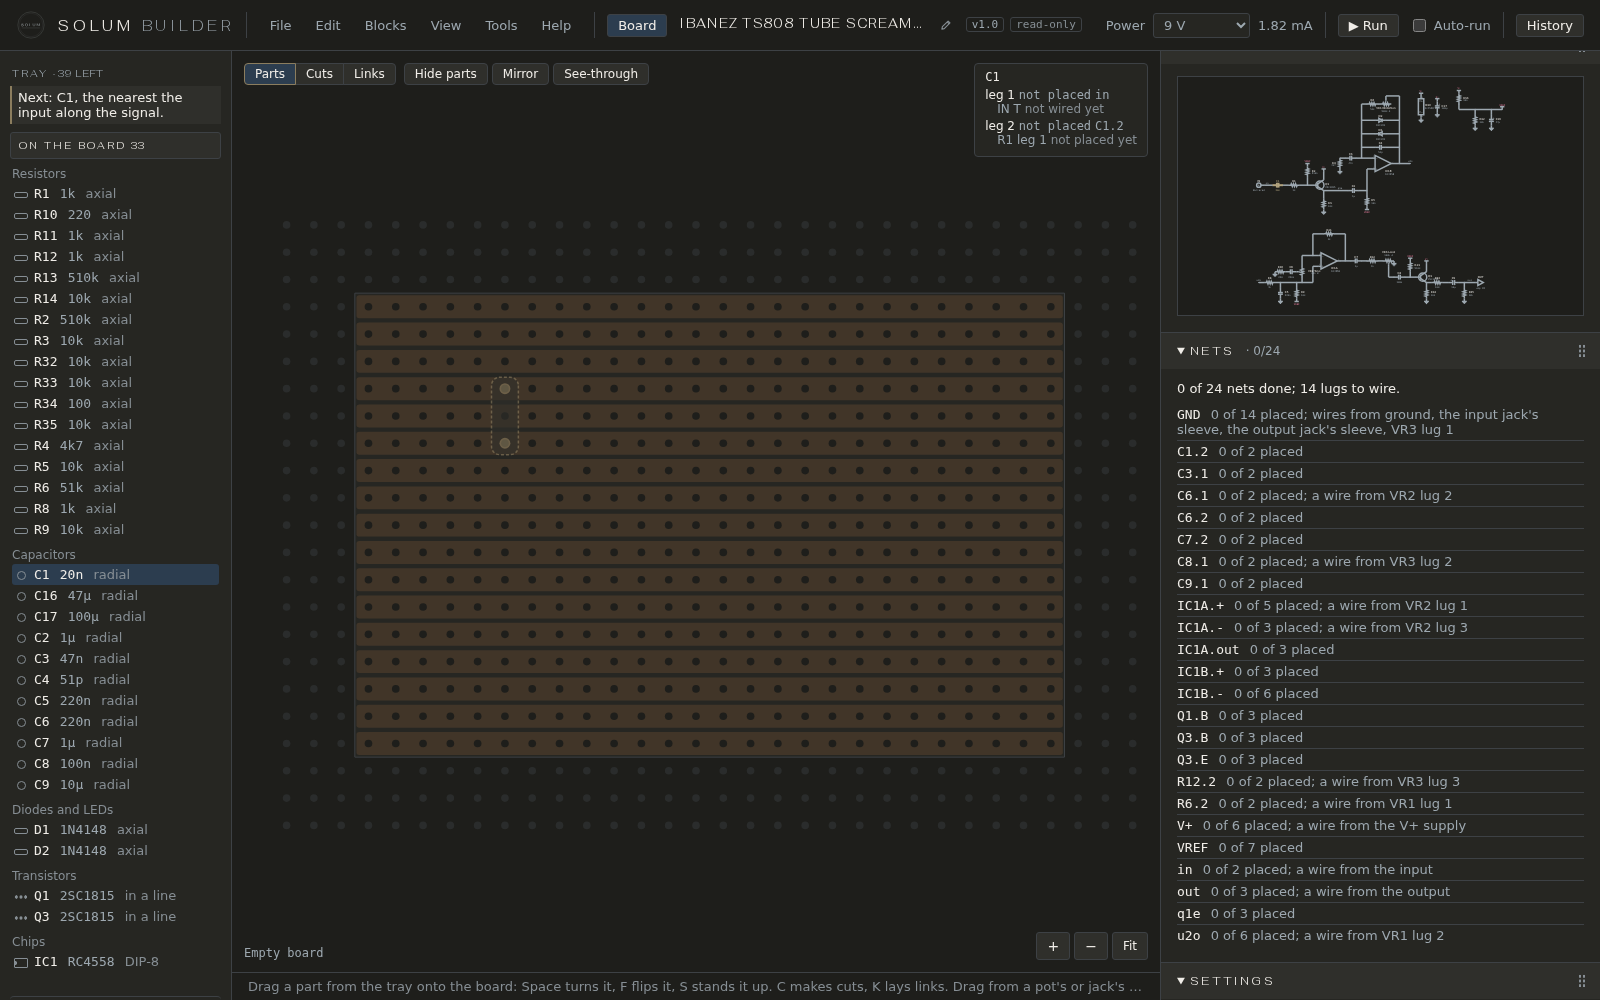
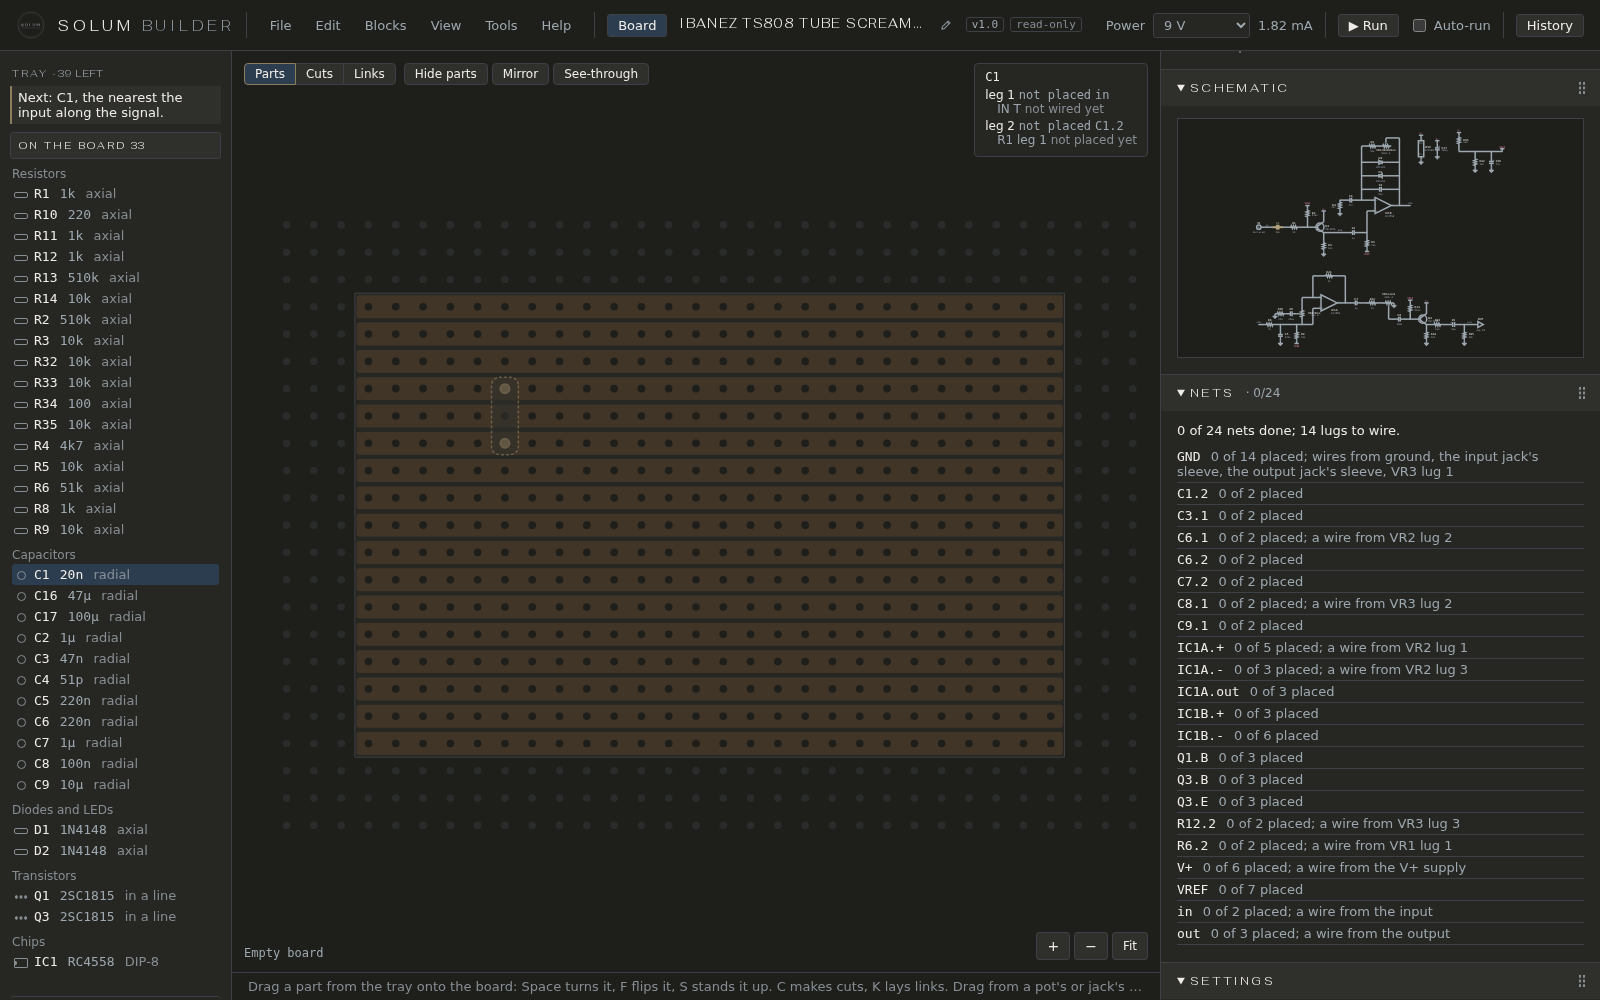
Board: Nets scrolls in its own pane; the guide explains the limits and the layout help (#53)
* Board: the Nets list scrolls in its own pane; the guide explains the limits and the layout help

- Nets capped at 300 px with its own scroll (as Problems' and DC's lists), so
  Settings and the panes below stay on screen on a big circuit (D-371 note).
  UI test on the TS808's 24 nets; the board pictures made again.
- docs/guide/stripboard.md: why the placement limits matter, which parts each
  keeps, the rule (on the pin's strip, within 2 holes plus one per extra part,
  nothing between), what counts as a link near a high-gain input, and a new
  "How the layout help works" (Start a board, Fill the rest, Tidy up, and
  Build a full layout's search, attempts and how the best board is chosen).

* Board: the Nets list up to half the window, at least 300 px

The Board view has few panes, so Nets can take more room (the user): the cap
is now max(300px, 50vh), about 22 nets on a 1000 px window. D-371 note, test
and the board pictures updated.

---------

Changed region(s): [[0.7188, 0.093, 0.9688, 0.961], [0.75, 0.062, 0.8125, 0.093]]

diff --git a/web/app.css b/web/app.css
@@ -724,9 +724,10 @@ body:has(.panels details.moving, .board-panels details.moving) { cursor: grabbin
 
 /* Problems (D-077) */
 .panels summary .count, .board-panels summary .count { font-family: var(--font-ui); text-transform: none; letter-spacing: 0; color: var(--text-2); margin-left: 6px; }
-.problem-list, .dc-list { overflow-y: auto; overscroll-behavior: contain; padding-right: 4px; }
+.problem-list, .dc-list, .net-list { overflow-y: auto; overscroll-behavior: contain; padding-right: 4px; }
 .problem-list { max-height: 300px; } /* about six problems */
 .dc-list { max-height: 200px; } /* about the Harmonics plot */
+.net-list { max-height: max(300px, 50vh); } /* the board's Nets: half the window (the Board view has few panes), so the others stay in reach */
 .dc-end { color: var(--text-3); font-size: 11px; }
 .problem { border-left: 3px solid var(--border); margin: 0 0 6px; padding: 4px 0 4px 8px; }
 .problem:has(.sev-error) { border-left-color: var(--error); }

diff --git a/web/board/board-view.js b/web/board/board-view.js
@@ -1036,7 +1036,7 @@ export function boardView(host, app) {
     $("board-nets-count").textContent = progress.nets.length ? `· ${progress.nets_done}/${progress.nets.length}` : "";
     $("board-nets-body").replaceChildren(
       h("p", { class: "board-progress" }, [netsLine(progress)]),
-      h("ul", { class: "board-list" }, progress.nets.map((n) => {
+      h("ul", { class: "board-list net-list" }, progress.nets.map((n) => {
         const row = h("li", { class: `net-${n.state}`, "data-net": n.net }, [h("span", { class: "net" }, [n.net]), " ", h("span", { class: "state" }, [netWords(n)])]);
         row.addEventListener("click", () => app.select({ kind: "net", id: n.net }));
         return row;

diff --git a/tests/ui/test_board.py b/tests/ui/test_board.py
@@ -125,6 +125,17 @@ def test_a_circuit_without_a_board_shows_its_parts_to_place(page: Page, base_url
     )
 
 
+def test_a_long_nets_list_scrolls_in_its_own_pane(page: Page, base_url: str) -> None:
+    """The TS808's 24 nets scroll inside Nets (as Problems' rows do, D-077), the list up to
+    half the window (at least 300 px), so the other panes stay in reach."""
+    open_with_board(page, base_url, None, "ts808")
+    page.locator("#board-button").click()
+    nets = page.locator("#board-nets-body .net-list")
+    expect(nets.locator("li")).to_have_count(24)
+    shown, whole, window = nets.evaluate("e => [e.clientHeight, e.scrollHeight, innerHeight]")
+    assert shown <= max(300, window / 2) < whole
+
+
 def test_the_board_panes_keep_their_own_order(page: Page, base_url: str) -> None:
     open_with_board(page, base_url, None)
     page.locator("#board-button").click()

diff --git a/docs/guide/stripboard.md b/docs/guide/stripboard.md
@@ -54,16 +54,19 @@ The top-left buttons pick what a click does: **Parts** (P) places and moves part
 
 ### Placement limits
 
-Some parts only work well close to a particular pin, so the board checks they are there: on the pin's strip, within a few holes, nothing between:
+Some parts only work as drawn when they sit close to a particular pin. A long run of strip between them acts as an aerial and adds inductance: a decoupling capacitor far from its chip doesn't decouple, and a strip on a high-gain input picks up hum and noise that the stage then amplifies. The board reads these from the circuit:
 
 - a chip's decoupling capacitor by its supply pin, and a charge pump's capacitors;
-- an op-amp's feedback parts by its pin;
-- a regulator's smallest capacitor on each side, and a transistor's bypass capacitor;
-- the parts in series with a high-gain stage's input (a stage with ten times gain or more).
+- an op-amp's feedback parts (those between its output and its − input) by the − input;
+- a regulator's smallest capacitor on each side;
+- a transistor's bypass capacitor by its emitter (a JFET's by its source);
+- the parts in series with a high-gain stage's input. A stage counts as high gain when its own gain is ten times or more with the knobs as set, all down or all up, worked out by simulating the circuit. Parts whose other leg goes to ground, a supply or a reference voltage (a bias resistor, say) aren't kept: no signal reaches them there.
+
+A limit is met when the part's leg is **on the pin's own strip, within 2 holes of the pin, with nothing between** (no cut, no other net's leg). Each more part kept by the same pin gets one more hole: three feedback parts on one pin may be up to 4 holes away. These are warnings, not faults: the board still matches the circuit, and you can decide a part is fine where it is.
 
 A limit broken is a warning that says what breaks it: *D1, D2 and C4 should sit by IC1's pin 6 at O15 (a feedback part): on its strip within 4 holes, nothing between. D1: it's 9 holes away.* When you pick up such a part, only the holes that keep it by its pin are marked; if none is free, the card says what's in the way.
 
-The board also warns of a **link running under or beside a part on a high-gain input**, where it could pick up noise: *The link from I7 to I15 runs beside R5, on IC1's pin 5 (the high-gain stage's input): move it a column or two.* Links on ground and the supplies don't count.
+The board also warns of a **link running under or beside a part on a high-gain input**, where it could pick up noise: *The link from I7 to I15 runs beside R5, on IC1's pin 5 (the high-gain stage's input): move it a column or two.* A link counts when it passes under such a part, within one hole of one of its legs in any direction, or under a chip with a high-gain input pin. Links on ground, the supplies and reference voltages don't count: they carry no signal to pick up.
 
 ### Bodies that touch
 
@@ -109,6 +112,17 @@ Links are drawn in lavender on both sides. **Highlight rails**, in Settings, tin
 
 Start a board and Tidy up give you a start to work from; Build a full layout gives a finished board, usually a fraction of Start a board's size. Every kind keeps the parts you moved off the board, your board notes and your dismissals.
 
+### How the layout help works
+
+All four follow the placement limits and avoid links near high-gain inputs where they can, and all leave a board that passes the check.
+
+- **Start a board** lays the parts out left to right in signal order, from the input. Each net is carried along a strip, a part's legs go across the strips to reach their nets, and a part kept by a pin (a decoupling capacitor, a feedback part) is laid out right beside that pin's part. Any net still in pieces gets a strip of its own across the board, with each piece linked to it, which is why it never fails. It's quick and always the same, but roomy: a start, not a finished board.
+- **Fill the rest** does the same for the tray's parts only, below what you placed, linking them up to it. Your parts don't move.
+- **Tidy up** tries small changes one at a time, in a fixed order: drop a link or cut, move a part, link or cut one hole left or up, take out an empty column or strip, trim the edges. It keeps a change only when the board still passes the check, no limit it met is broken, and the board is no bigger and has no more cuts or links. It stops when nothing more helps.
+- **Build a full layout** starts from Start a board's layout, squeezes out the empty lines, then searches. It makes thousands of random changes (slide a part, turn it, swap two parts, take out a line, move a part a long way) and works out the cuts and links again after each one. A change that makes the board better is kept; early on, a change that makes it a little worse is sometimes kept too, so the search can get out of a dead end, and that happens less and less as it goes on (the method is called simulated annealing). Parts never land on each other, and no new touching bodies are made.
+
+  It makes four such attempts side by side, each from a different random start, and keeps the best board. The best board is the one that breaks the fewest placement limits; then the one with the fewest links near a high-gain input; then the smallest; then the one with the fewest cuts and links. Each attempt runs a fixed number of steps (more for a bigger circuit), not a fixed time, so the same circuit gives the same board on any computer. **Thorough** runs each attempt four times as long, and **Try another** runs four attempts from other random starts.
+
 ### Build a full layout
 
 Choose how long it looks:
@@ -148,7 +162,7 @@ A trimmer goes on as the square single-turn kind (triangle, Bourns 3362P) unless
 
 ## Nets and warnings
 
-**Nets** lists every net, *done*, *in pieces* or *shorted*, with how many of its legs are placed and which wires it still needs: *18 of 24 nets done; 14 lugs to wire.* Click a net to light it on the board and the schematic.
+**Nets** lists every net, *done*, *in pieces* or *shorted*, with how many of its legs are placed and which wires it still needs: *18 of 24 nets done; 14 lugs to wire.* A long list scrolls inside the pane, so the panes below stay in reach. Click a net to light it on the board and the schematic.
 
 **Warnings** lists faults first, then the broken limits and the rest. When the board is complete and right it says *The board matches the circuit.*
 

diff --git a/docs/DECISIONS.md b/docs/DECISIONS.md
@@ -2143,6 +2143,7 @@ Calculators → *Filter* (`filterCalculator` in `web/tools.js`, `GET /api/tools/
 - (Superseded by D-385: no stock bypass, `stock_bypass` removed.) **The stock bypass** (`check.stock_bypass`): a 3PDT footswitch unless the schematic draws a latching stomp (a switch whose positions are On / Bypassed: `switches.py`'s `_stomp`, so a momentary tap-tempo switch doesn't count), a status LED unless it draws an LED labelled "status" (`export.is_status_led`, now the one test of that, used by `built_where` and the parts list).
 - **The editor's settings are one server preference, `solum.board`** (`{values, next, shorts, grow, seeThrough}`, D-311), so they follow the person as the pane order does; a missing or garbled one reads as its default (`readSettings`). All five are listed from the start; the ones whose feature hasn't landed show their default, disabled, with "Comes with placing parts" in the tooltip, and become live as each lands (`BOARD_SETTINGS[].acts`).
 - *Why:* the spec's tray lists off-board parts and the footswitch; grouping them as the parts list does keeps one owner of "what is one thing to buy". The settings in one place from the start, so the pane doesn't change shape item by item.
+- **The Nets list scrolls in its own pane** (the user, 2026-11-24): capped at half the window's height, at least 300 px (`.net-list`, scrolling as Problems' and DC's lists do, D-077; first 300 px, then raised by the user: the Board view has few panes, so Nets can take more). On a big circuit (the TS808's 24 nets) the other panes stay in reach as the column scrolls.
 *Alternatives:* the tray as a pane in the right column (the left stood empty in the Board view); off-board wire ends as tray rows (seven rows for three parts); a second grouping of poles and gangs in the stripboard code (two owners); the settings in `localStorage` (lost when the Mac app's port changes, D-311); showing only the settings that act yet (the pane reshuffles with every phase).
 
 
